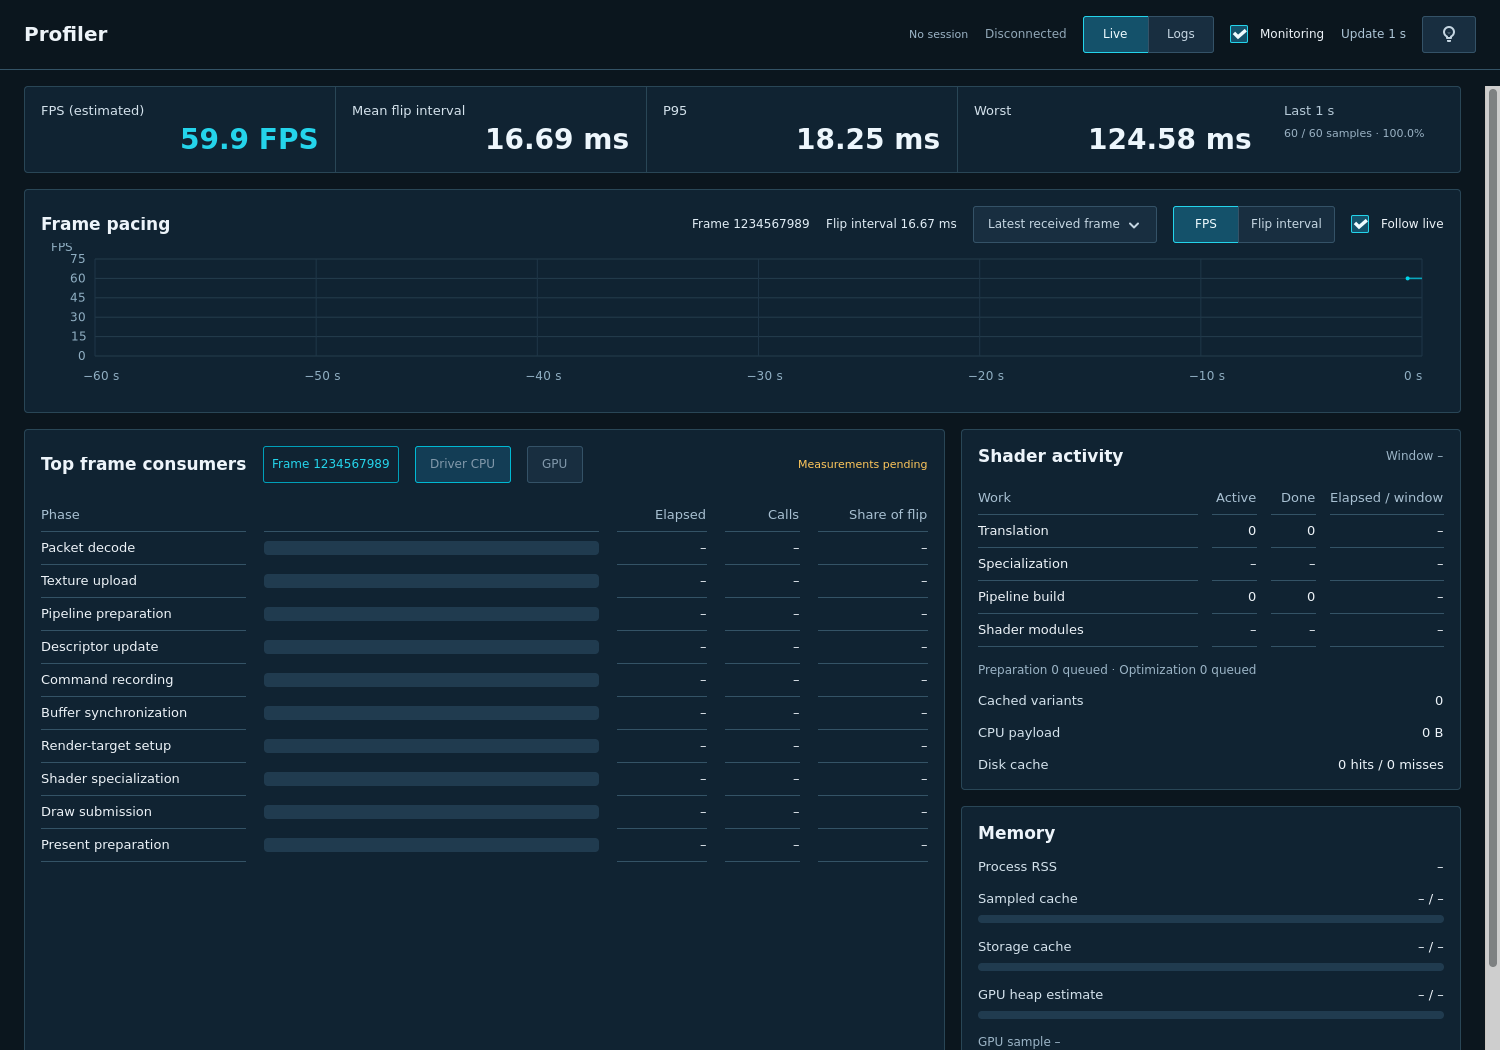
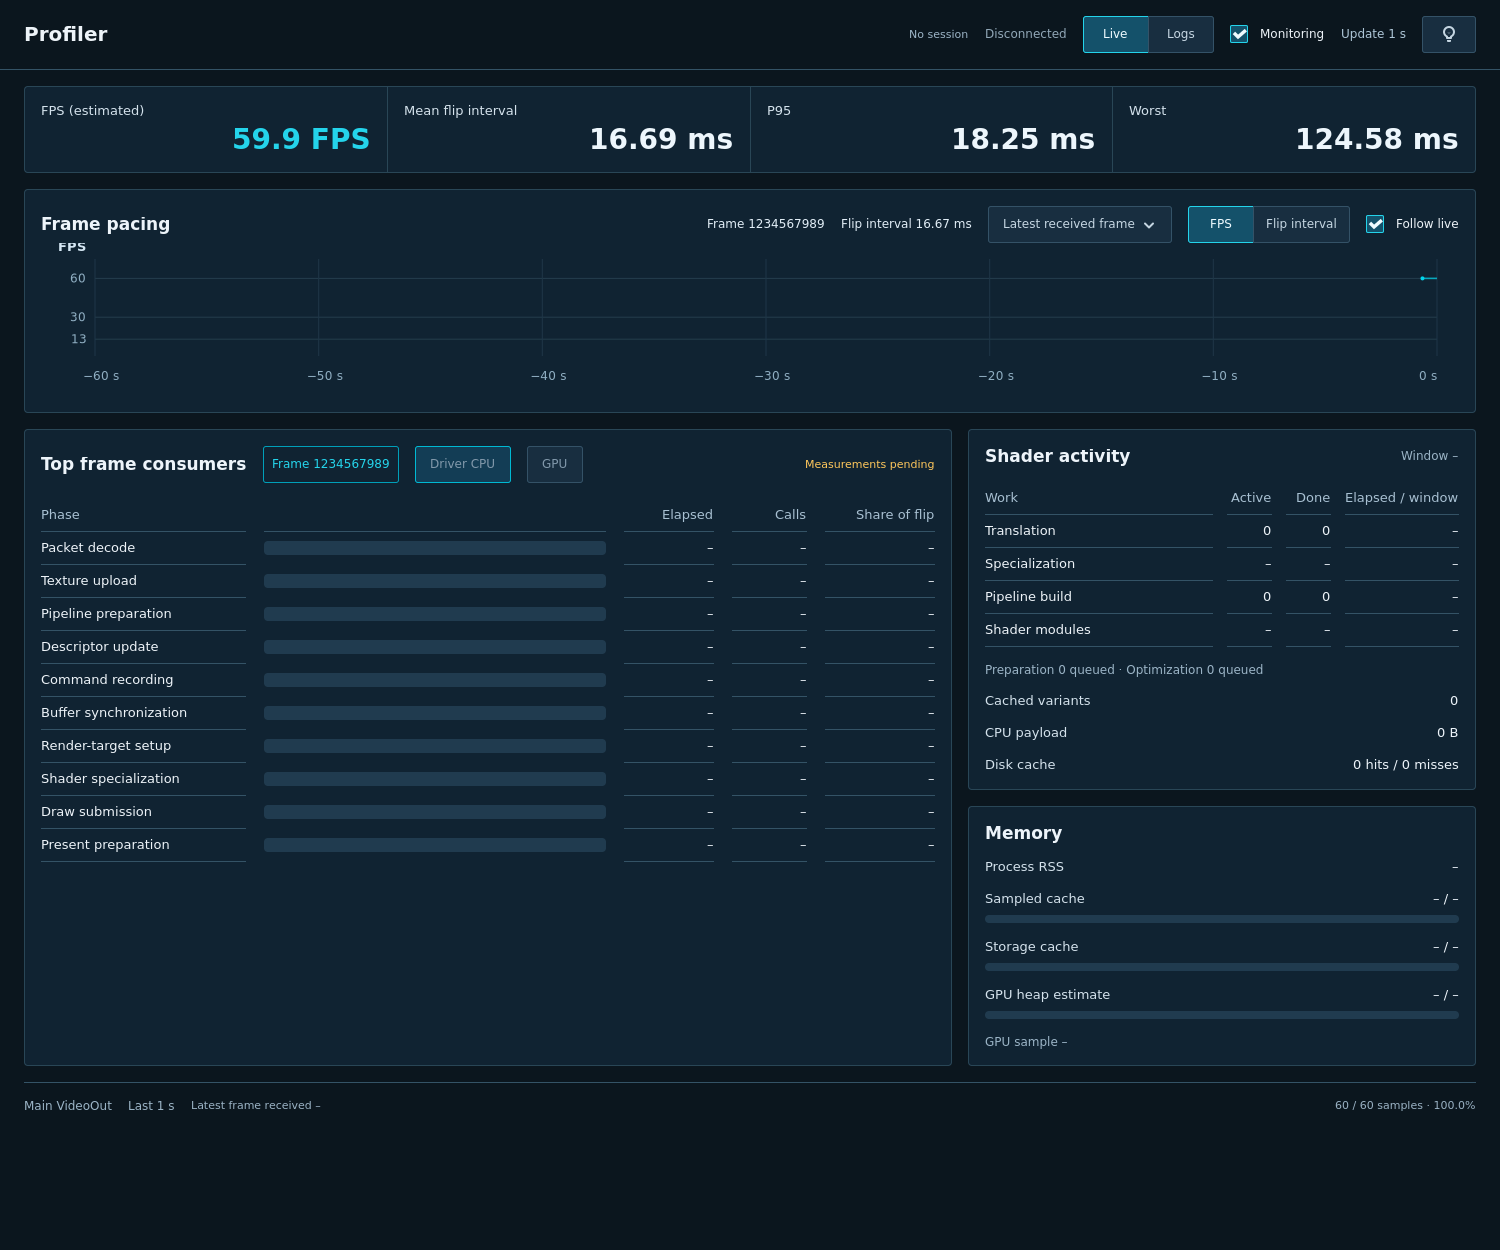
fix(profiler): simplify FPS labels and move sample status to footer

diff --git a/assets/ui/style.css b/assets/ui/style.css
@@ -80,7 +80,6 @@ button { box-shadow: none; text-shadow: none; }
 .metric-label { color: #d4e2ec; font-size: 13px; }
 .metric-value { color: #edf6fc; font-size: 28px; font-weight: 600; font-feature-settings: "tnum"; }
 .metric-primary { color: #24d4eb; }
-.monitor-window { color: #b6cad8; font-size: 13px; }
 .monitor-freshness, .monitor-coverage { color: #9ab2c4; font-size: 11px; }
 .metric-value.stale, .monitor-freshness.stale { color: #b8a47c; }
 .monitor-heading { font-size: 17px; font-weight: 600; color: #edf4fa; }

diff --git a/src/ui/profiler.cpp b/src/ui/profiler.cpp
@@ -169,19 +169,6 @@ ProfilerView::ProfilerView(std::function<void(bool)> request_monitoring)
         gtk_box_append(GTK_BOX(metric_values), card.root);
     }
     gtk_box_append(GTK_BOX(cards), metric_values);
-    auto* summary = gtk_box_new(GTK_ORIENTATION_VERTICAL, 8);
-    gtk_widget_add_css_class(summary, "metric-card");
-    window_state_ = label("Last 1 s", "monitor-window");
-    gtk_label_set_width_chars(GTK_LABEL(window_state_), 20);
-    gtk_label_set_max_width_chars(GTK_LABEL(window_state_), 20);
-    gtk_label_set_ellipsize(GTK_LABEL(window_state_), PANGO_ELLIPSIZE_END);
-    coverage_ = label("– / – samples · –", "monitor-coverage");
-    gtk_label_set_width_chars(GTK_LABEL(coverage_), 20);
-    gtk_label_set_max_width_chars(GTK_LABEL(coverage_), 20);
-    gtk_label_set_ellipsize(GTK_LABEL(coverage_), PANGO_ELLIPSIZE_END);
-    gtk_box_append(GTK_BOX(summary), window_state_);
-    gtk_box_append(GTK_BOX(summary), coverage_);
-    gtk_box_append(GTK_BOX(cards), summary);
     gtk_box_append(GTK_BOX(live), cards);
 
     auto* chart_panel = card();
@@ -391,15 +378,27 @@ ProfilerView::ProfilerView(std::function<void(bool)> request_monitoring)
     gtk_box_append(GTK_BOX(side), memory_panel_);
     gtk_flow_box_insert(GTK_FLOW_BOX(lower), side, -1);
     gtk_box_append(GTK_BOX(live), lower);
-    auto* footer = gtk_box_new(GTK_ORIENTATION_HORIZONTAL, 24);
+    auto* footer = gtk_box_new(GTK_ORIENTATION_HORIZONTAL, 16);
     gtk_widget_add_css_class(footer, "profiler-footer");
     gtk_box_append(GTK_BOX(footer), label("Main VideoOut", "resource-scope"));
+    window_state_ = label("Last 1 s", "resource-scope");
+    gtk_label_set_max_width_chars(GTK_LABEL(window_state_), 22);
+    gtk_label_set_ellipsize(GTK_LABEL(window_state_), PANGO_ELLIPSIZE_END);
+    gtk_box_append(GTK_BOX(footer), window_state_);
     freshness_ = label("Latest frame received –", "monitor-freshness");
+    gtk_label_set_ellipsize(GTK_LABEL(freshness_), PANGO_ELLIPSIZE_END);
+    gtk_widget_set_hexpand(freshness_, true);
     gtk_box_append(GTK_BOX(footer), freshness_);
     stall_state_ = label("", "resource-scope");
     gtk_widget_set_hexpand(stall_state_, true);
     gtk_label_set_xalign(GTK_LABEL(stall_state_), 1);
+    gtk_label_set_ellipsize(GTK_LABEL(stall_state_), PANGO_ELLIPSIZE_END);
     gtk_box_append(GTK_BOX(footer), stall_state_);
+    coverage_ = label("– / – samples · –", "monitor-coverage");
+    gtk_label_set_max_width_chars(GTK_LABEL(coverage_), 30);
+    gtk_label_set_ellipsize(GTK_LABEL(coverage_), PANGO_ELLIPSIZE_END);
+    gtk_label_set_xalign(GTK_LABEL(coverage_), 1);
+    gtk_box_append(GTK_BOX(footer), coverage_);
     gtk_box_append(GTK_BOX(live), footer);
 
     auto* console = gtk_box_new(GTK_ORIENTATION_VERTICAL, 14);
@@ -793,18 +792,25 @@ void ProfilerView::draw_chart(cairo_t* context, int width, int height) noexcept 
         const double maximum = chart_maximum(monitoring_, chart_fps_);
         cairo_select_font_face(context, "Sans", CAIRO_FONT_SLANT_NORMAL, CAIRO_FONT_WEIGHT_NORMAL);
         cairo_set_font_size(context, 12);
-        const unsigned ticks = chart_fps_ ? 5 : 4;
-        for (unsigned tick = 0; tick <= ticks; ++tick) {
-            const double y = chart_top + plot_height * tick / ticks;
+        const double fps_ticks[] = {13, 30, 60};
+        const unsigned count = chart_fps_ ? 3 : 5;
+        for (unsigned tick = 0; tick < count; ++tick) {
+            const double value = chart_fps_ ? fps_ticks[tick] : maximum * (1.0 - tick / 4.0);
+            const double y = chart_top + plot_height * (1.0 - value / maximum);
             cairo_set_source_rgb(context, 0.14, 0.24, 0.30);
             cairo_set_line_width(context, 1);
             cairo_move_to(context, chart_left, y);
             cairo_line_to(context, width - chart_right, y);
             cairo_stroke(context);
             cairo_set_source_rgb(context, 0.56, 0.68, 0.76);
-            chart_text(context, chart_left - 10, y + 4, number(maximum * (1 - static_cast<double>(tick) / ticks), 0), true);
+            chart_text(context, chart_left - 10, y + 4, number(value, 0), true);
         }
-        chart_text(context, 10, chart_top - 8, chart_fps_ ? "FPS" : "ms");
+        cairo_set_source_rgb(context, 0.83, 0.90, 0.95);
+        cairo_select_font_face(context, "Sans", CAIRO_FONT_SLANT_NORMAL, CAIRO_FONT_WEIGHT_BOLD);
+        cairo_set_font_size(context, 13);
+        chart_text(context, chart_left - 10, chart_top - 8, chart_fps_ ? "FPS" : "ms", true);
+        cairo_select_font_face(context, "Sans", CAIRO_FONT_SLANT_NORMAL, CAIRO_FONT_WEIGHT_NORMAL);
+        cairo_set_font_size(context, 12);
         for (unsigned tick = 0; tick <= 6; ++tick) {
             const double x = chart_left + plot_width * tick / 6.0;
             cairo_set_source_rgb(context, 0.12, 0.21, 0.28);

diff --git a/docs/profiling.md b/docs/profiling.md
@@ -9,7 +9,7 @@ Additional attribution terms: see NOTICE in the repository root.
 
 The Profiler has **Live** and **Logs** views for an externally launched game. The Logs view's output-only VTE terminal receives merged stdout/stderr directly, interprets terminal colors and progress updates, and retains 5000 scrollback lines. The runtime also writes the complete raw session log at `<framerift-data-root>/logs/<game-id>/<session-id>/game.log`; display-only LF-to-CRLF normalization leaves that file unchanged. There is no shell, PTY or file polling. Disable Follow output and scroll up to inspect earlier output; the Copy button, Ctrl+C or Ctrl+Shift+C copies selected text. Logs remain visible after process exit and the terminal clears for the next session.
 
-The Live view uses the [UDP debug bridge and MCP server](debug-bridge.md). Managed game starts automatically request **Monitoring** after the bridge handshake, including starts through MCP. The toggle can disable it for that session. Monitoring receives successful main-output flip summaries from a bridge-enabled AnyPS5 build. The dashboard updates once per second with estimated FPS, mean/P95/worst flip interval, sample coverage, latest/worst frame details and a bounded 60-second history. Live/Logs and chart mode use the same segmented control. The compact chart has a fixed FPS axis from 0 to 75; higher observations remain in the measurements but are clipped in the plot. Flip interval keeps its automatic scale. The chart defaults to **FPS**; a segmented control always shows both **FPS** and **Flip interval**, with the active mode highlighted. Frame identity, interval and latest/worst selection sit in the chart header overlay; output identity is available in the frame tooltip. FPS history counts completed flips in the preceding source second, requiring a reliable full-second baseline; it does not invert each individual interval. Brief catch-up flips therefore do not create artificial 400-FPS spikes. Missing samples and pauses of at least one second break the line, and the live time axis advances while frames stop arriving. The overview FPS estimate remains the reciprocal of the mean valid interval in its displayed source window. Selecting a chart point preserves that frame until Follow live is resumed. Collection continues across tab changes; stop/disconnect retains the last observation with an explicit inactive/stale state.
+The Live view uses the [UDP debug bridge and MCP server](debug-bridge.md). Managed game starts automatically request **Monitoring** after the bridge handshake, including starts through MCP. The toggle can disable it for that session. Monitoring receives successful main-output flip summaries from a bridge-enabled AnyPS5 build. The dashboard updates once per second with estimated FPS, mean/P95/worst flip interval, sample coverage, latest/worst frame details and a bounded 60-second history. Live/Logs and chart mode use the same segmented control. The compact chart has a fixed FPS axis from 0 to 75; higher observations remain in the measurements but are clipped in the plot. Flip interval keeps its automatic scale. The FPS axis labels only 13, 30 and 60, with a brighter unit label. Sample counts, coverage and observation-window state sit in the bottom status row, outside the four-metric overview. The chart defaults to **FPS**; a segmented control always shows both **FPS** and **Flip interval**, with the active mode highlighted. Frame identity, interval and latest/worst selection sit in the chart header overlay; output identity is available in the frame tooltip. FPS history counts completed flips in the preceding source second, requiring a reliable full-second baseline; it does not invert each individual interval. Brief catch-up flips therefore do not create artificial 400-FPS spikes. Missing samples and pauses of at least one second break the line, and the live time axis advances while frames stop arriving. The overview FPS estimate remains the reciprocal of the mean valid interval in its displayed source window. Selecting a chart point preserves that frame until Follow live is resumed. Collection continues across tab changes; stop/disconnect retains the last observation with an explicit inactive/stale state.
 
 The same normalized model is available through `get_monitoring_snapshot`. Game-side monotonic timestamps determine intervals and source windows; UDP receive age determines freshness. The first completion after activation or output reset has no interval. Per-stream completion IDs identify missing samples separately from general packet gaps and producer drops. The dashboard does not acknowledge telemetry, parse timing files or enable existing timing/draw/GPU log settings. CPU hotspots, GPU execution tables, saved snapshots and screenshots remain later increments.
 

diff --git a/docs/profiler-design-review.md b/docs/profiler-design-review.md
@@ -35,9 +35,9 @@ Cards use 16 px internal padding and 16 px section/column gaps. Shader work and 
 
 ## Verification
 
-Live/Logs reuses the chart segmented control. Native mouse clicks verify switching to Logs and returning to Live while preserving chart mode. The chart drawing area is 190 px high and the FPS axis is fixed at 0–75 with 15-FPS ticks; interval mode still scales automatically.
+Live/Logs reuses the chart segmented control. Native mouse clicks verify switching to Logs and returning to Live while preserving chart mode. The chart drawing area is 190 px high and the FPS axis is fixed at 0–75 with labels at 13, 30 and 60 and a brighter bold unit label; interval mode still scales automatically.
 
-The revised controls were inspected at 1500 × 1050 and 1100 × 850. Both mode captions remain readable with a ten-digit frame ID and a three-digit worst interval. Native toggling confirms mutual exclusion and redraw in both modes. Follow live and Monitoring were checked on and off; the indicator allocation is 16 × 16 without inherited theme padding. Disabled controls remain distinct from enabled options. Narrow layouts stack the resource column; scrolling exposes the complete shader/memory cards without horizontal overflow. All dashboard card containers share one factory and CSS class, 16 px padding/gaps and 4 px corners. Theme-independent button foregrounds are explicit.
+The revised controls were inspected at 1500 × 1250 and 1100 × 850. Both mode captions remain readable with a ten-digit frame ID and a three-digit worst interval. Native toggling confirms mutual exclusion and redraw in both modes. Follow live and Monitoring were checked on and off; the indicator allocation is 16 × 16 without inherited theme padding. Disabled controls remain distinct from enabled options. Narrow layouts stack the resource column; scrolling exposes the complete shader/memory cards without horizontal overflow. The top strip contains only the four metrics; sample counts, coverage and observation-window state sit in the bottom status row, verified in wide and scrolled narrow layouts. All dashboard card containers share one factory and CSS class, 16 px padding/gaps and 4 px corners. Theme-independent button foregrounds are explicit.
 
 - Native shell check: connection status remains beside Profiler on both pages; search and refresh are visible in Library and hidden in Profiler. Branding, Settings and window controls keep the shared shell styling.
 - Native build succeeds (`cmake --build build -j2`); the previous workspace implementation also passed a full clean build.
